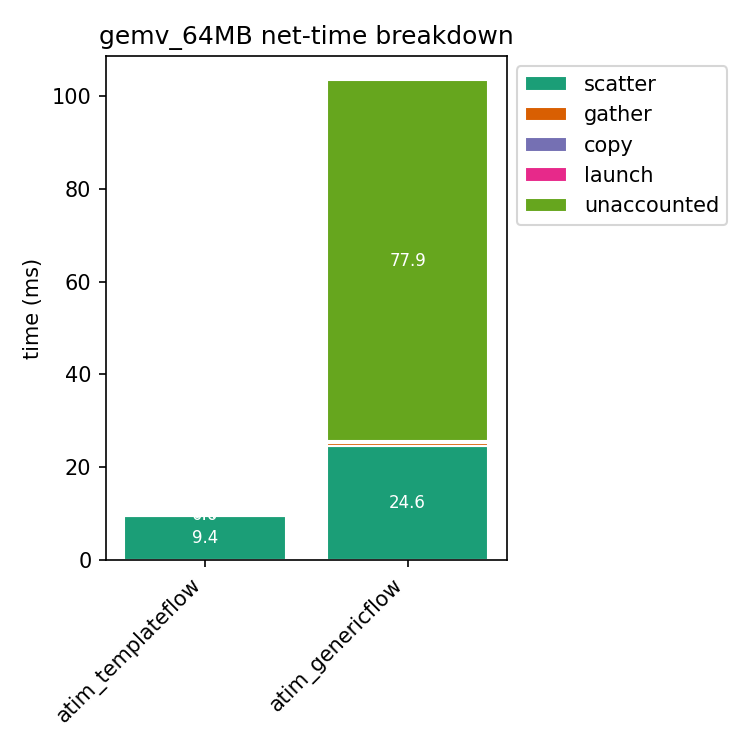
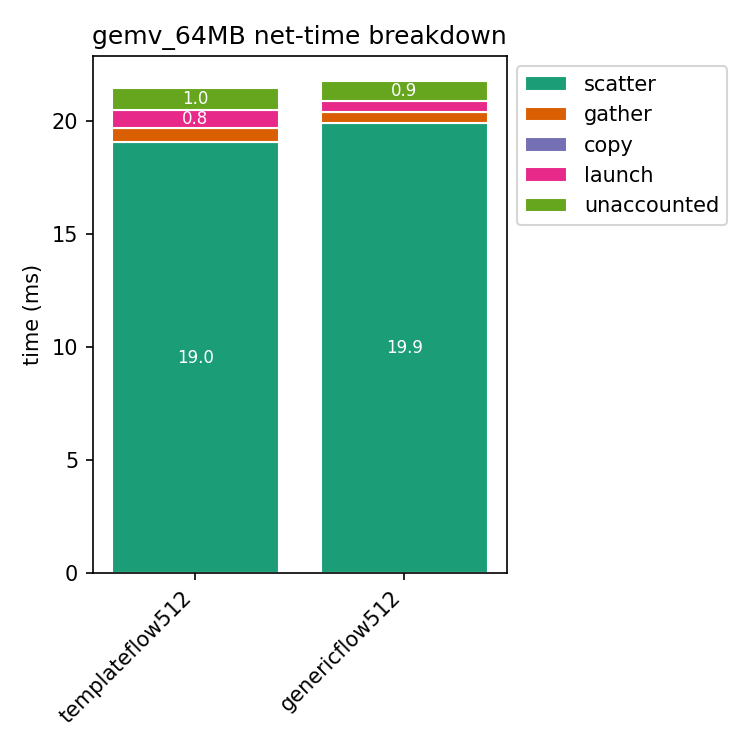
[upmem] Add scatter opts to generic pipeline

Changed region(s): [[0.0307, 0.0307, 0.6747, 0.9507], [0.0613, 0.8893, 0.1533, 0.9813], [0.5213, 0.644, 0.5827, 0.6747]]

diff --git a/experiments/gemv_microbenchmark/dodo.py b/experiments/gemv_microbenchmark/dodo.py
@@ -28,7 +28,7 @@ sys.path.insert(0, str(EXPERIMENTS_DIR))
 
 from doit.tools import check_timestamp_unchanged
 from doit.reporter import ProgressBarReporter  # noqa: E402
-from cinm_experiments import compile_run, cinm1, cinmopt, measurements  # noqa: E402
+from cinm_experiments import compile_run, cinmopt, measurements  # noqa: E402
 from cinm_experiments.paths import DEFAULT_CINM_OPT
 
 DOIT_CONFIG = {
@@ -108,20 +108,22 @@ CONFIGS = [
     #     lower=cinmopt.eval_solution_lowerer(),
     # ),
     compile_run.Config(
-        system="atim_templateflow",
+        system="templateflow512",
         fn_name="gemv_64MB",
         label="default",
-        # The atim optimum, in the generic search space: one block size per
-        # iteration dimension of the gemv, named <op>.<dim><level> -- level 0
-        # is what a workgroup leaf gets, level 1 what it walks that in at the
-        # leaf memory level. The template path reads the same
-        # numbers back as mramRow=64, mramCol=128, taskletCols=1, wramRow=8,
-        # wramCol=64 -- see docs/CnmMemoryLevelsDesign.md §H5.
         params={
-            "dpus": 2048,
+            "dpus": 512,
             "tasklets": 8,
+            # The tile counts have to fill the workgroup exactly, so
+            # (4096/M0) * (4096/K0) == dpus * tasklets, i.e. M0 * K0 == 4096.
+            # Of the choices that satisfy it, this one keeps M0 at the
+            # 2048-DPU optimum and puts the 4x extra work per leaf into K0.
+            # That matters because A reaches a leaf as M0 runs of K0 elements:
+            # 8 runs of 2 KB here, against 64 runs of 256 B at M0=64. A is the
+            # 64 MB operand; all that grows in exchange is the vector scatter,
+            # at 1 MB.
             "gemv.M0": 8,  # mramRow * taskletCols / tasklets
-            "gemv.K0": 128,  # mramCol / taskletCols
+            "gemv.K0": 512,  # mramCol / taskletCols
             "gemv.M1": 8,  # wramRow
             "gemv.K1": 64,  # wramCol
         },
@@ -134,20 +136,22 @@ CONFIGS = [
         ),
     ),
     compile_run.Config(
-        system="atim_genericflow",
+        system="genericflow512",
         fn_name="gemv_64MB",
         label="default",
-        # The atim optimum, in the generic search space: one block size per
-        # iteration dimension of the gemv, named <op>.<dim><level> -- level 0
-        # is what a workgroup leaf gets, level 1 what it walks that in at the
-        # leaf memory level. The template path reads the same
-        # numbers back as mramRow=64, mramCol=128, taskletCols=1, wramRow=8,
-        # wramCol=64 -- see docs/CnmMemoryLevelsDesign.md §H5.
         params={
-            "dpus": 2048,
+            "dpus": 512,
             "tasklets": 8,
+            # The tile counts have to fill the workgroup exactly, so
+            # (4096/M0) * (4096/K0) == dpus * tasklets, i.e. M0 * K0 == 4096.
+            # Of the choices that satisfy it, this one keeps M0 at the
+            # 2048-DPU optimum and puts the 4x extra work per leaf into K0.
+            # That matters because A reaches a leaf as M0 runs of K0 elements:
+            # 8 runs of 2 KB here, against 64 runs of 256 B at M0=64. A is the
+            # 64 MB operand; all that grows in exchange is the vector scatter,
+            # at 1 MB.
             "gemv.M0": 8,  # mramRow * taskletCols / tasklets
-            "gemv.K0": 128,  # mramCol / taskletCols
+            "gemv.K0": 512,  # mramCol / taskletCols
             "gemv.M1": 8,  # wramRow
             "gemv.K1": 64,  # wramCol
         },
@@ -159,6 +163,58 @@ CONFIGS = [
             }
         ),
     ),
+    # compile_run.Config(
+    #     system="atim_templateflow",
+    #     fn_name="gemv_64MB",
+    #     label="default",
+    #     # The atim optimum, in the generic search space: one block size per
+    #     # iteration dimension of the gemv, named <op>.<dim><level> -- level 0
+    #     # is what a workgroup leaf gets, level 1 what it walks that in at the
+    #     # leaf memory level. The template path reads the same
+    #     # numbers back as mramRow=64, mramCol=128, taskletCols=1, wramRow=8,
+    #     # wramCol=64 -- see docs/CnmMemoryLevelsDesign.md §H5.
+    #     params={
+    #         "dpus": 2048,
+    #         "tasklets": 8,
+    #         "gemv.M0": 8,  # mramRow * taskletCols / tasklets
+    #         "gemv.K0": 128,  # mramCol / taskletCols
+    #         "gemv.M1": 8,  # wramRow
+    #         "gemv.K1": 64,  # wramCol
+    #     },
+    #     fn_module=source,
+    #     prim="gemv",
+    #     lower=cinmopt.eval_solution_lowerer(
+    #         extra_infer_opts={
+    #             "lowering": "templates",
+    #         }
+    #     ),
+    # ),
+    # compile_run.Config(
+    #     system="atim_genericflow",
+    #     fn_name="gemv_64MB",
+    #     label="default",
+    #     # The atim optimum, in the generic search space: one block size per
+    #     # iteration dimension of the gemv, named <op>.<dim><level> -- level 0
+    #     # is what a workgroup leaf gets, level 1 what it walks that in at the
+    #     # leaf memory level. The template path reads the same
+    #     # numbers back as mramRow=64, mramCol=128, taskletCols=1, wramRow=8,
+    #     # wramCol=64 -- see docs/CnmMemoryLevelsDesign.md §H5.
+    #     params={
+    #         "dpus": 2048,
+    #         "tasklets": 8,
+    #         "gemv.M0": 8,  # mramRow * taskletCols / tasklets
+    #         "gemv.K0": 128,  # mramCol / taskletCols
+    #         "gemv.M1": 8,  # wramRow
+    #         "gemv.K1": 64,  # wramCol
+    #     },
+    #     fn_module=source,
+    #     prim="gemv",
+    #     lower=cinmopt.eval_solution_lowerer(
+    #         extra_infer_opts={
+    #             "lowering": "generic",
+    #         }
+    #     ),
+    # ),
     # compile_run.Config(
     # system="cinm2_partial_reduction",
     # fn_name="gemv_64MB",
@@ -177,24 +233,24 @@ CONFIGS = [
     # prim="gemv",
     # lower=cinmopt.eval_solution_lowerer(),
     # ),
-    compile_run.Config(
-        system="cinm1",
-        fn_name="gemv_64MB",
-        label="default",
-        params={"dpus": DPUS, "tasklets": TASKLETS},
-        fn_module=source,
-        prim="gemv",
-        lower=cinm1.lowerer(),
-    ),
-    compile_run.Config(
-        system="cinm1_with_sg",
-        fn_name="gemv_64MB",
-        label="default",
-        params={"dpus": DPUS, "tasklets": TASKLETS},
-        fn_module=source,
-        prim="gemv",
-        lower=cinm1.lowerer(use_upmem_scatter_api=True),
-    ),
+    # compile_run.Config(
+    #     system="cinm1",
+    #     fn_name="gemv_64MB",
+    #     label="default",
+    #     params={"dpus": DPUS, "tasklets": TASKLETS},
+    #     fn_module=source,
+    #     prim="gemv",
+    #     lower=cinm1.lowerer(),
+    # ),
+    # compile_run.Config(
+    #     system="cinm1_with_sg",
+    #     fn_name="gemv_64MB",
+    #     label="default",
+    #     params={"dpus": DPUS, "tasklets": TASKLETS},
+    #     fn_module=source,
+    #     prim="gemv",
+    #     lower=cinm1.lowerer(use_upmem_scatter_api=True),
+    # ),
 ]
 
 
@@ -262,8 +318,8 @@ def task_plot():
     def action(out_path, by_kind):
         breakdowns = {}
         for config in CONFIGS:
-            if not config.system.startswith("atim"):
-                continue
+            # if not config.system.startswith("atim"):
+            #     continue
             output_dir = config.dir(DATA_ROOT) / "output"
             net_ms = measurements.net_time_ms(output_dir)
             if net_ms is None:

diff --git a/lib/Dialect/UPMEM/Transforms/UpmemInferAccelerator.cpp b/lib/Dialect/UPMEM/Transforms/UpmemInferAccelerator.cpp
@@ -226,8 +226,10 @@ struct UpmemInferencePlugin : cinm::InferencePlugin {
 
     // Step 3: bufferize
     pm->addPass(bufferization::createEmptyTensorEliminationPass());
+    pm->addPass(cnm::createCnmScatterOptimizationsPass());
     pm->addPass(createCSEPass());
     pm->addPass(createCanonicalizerPass());
+    pm->addPass(createPrintIRPass({.label = "before-bufferization"}));
     {
       bufferization::OneShotBufferizePassOptions opts;
       opts.unknownTypeConversion =
@@ -291,6 +293,8 @@ struct UpmemInferencePlugin : cinm::InferencePlugin {
     pm->addPass(createCanonicalizerPass());
     pm->addPass(createCSEPass());
     pm->addPass(createPrintIRPass({.label = "after-tile-mram-buffers"}));
+    pm->addPass(cnm::createCnmScatterOptimizationsPass());
+    pm->addPass(createPrintIRPass({.label = "after-scatter-opts"}));
     pm->addPass(createConvertLinalgToAffineLoopsPass());
     // Keep the reduction accumulator in a register. Straight out of linalg the
     // innermost loop reloads and restores the output element on every
